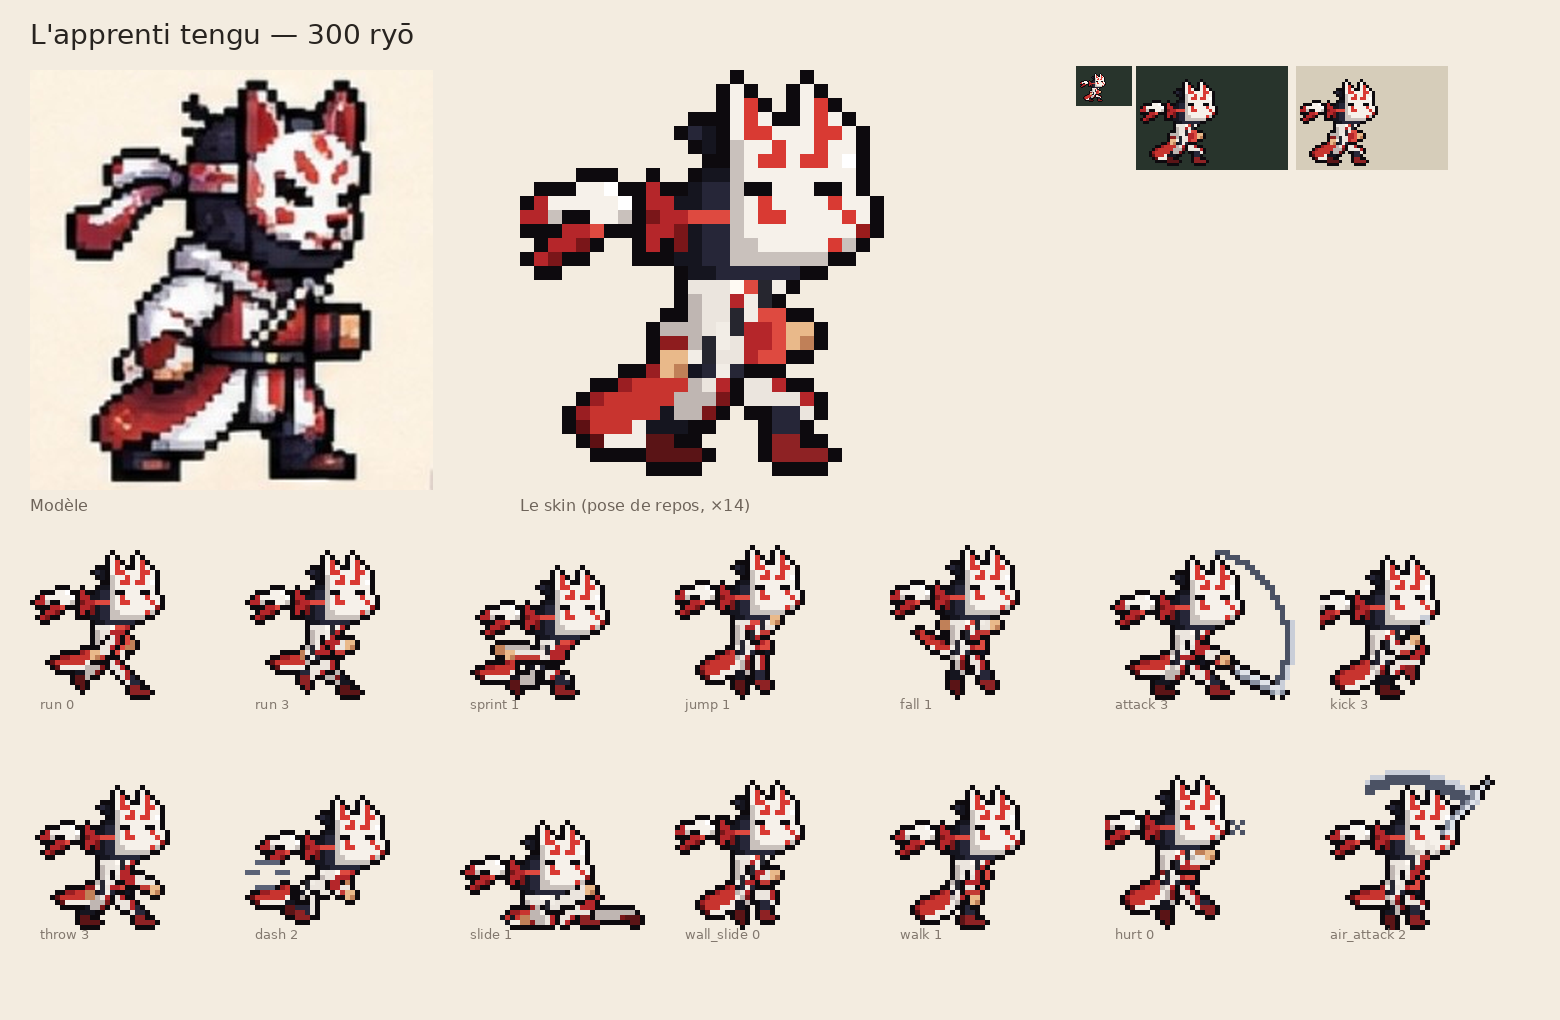
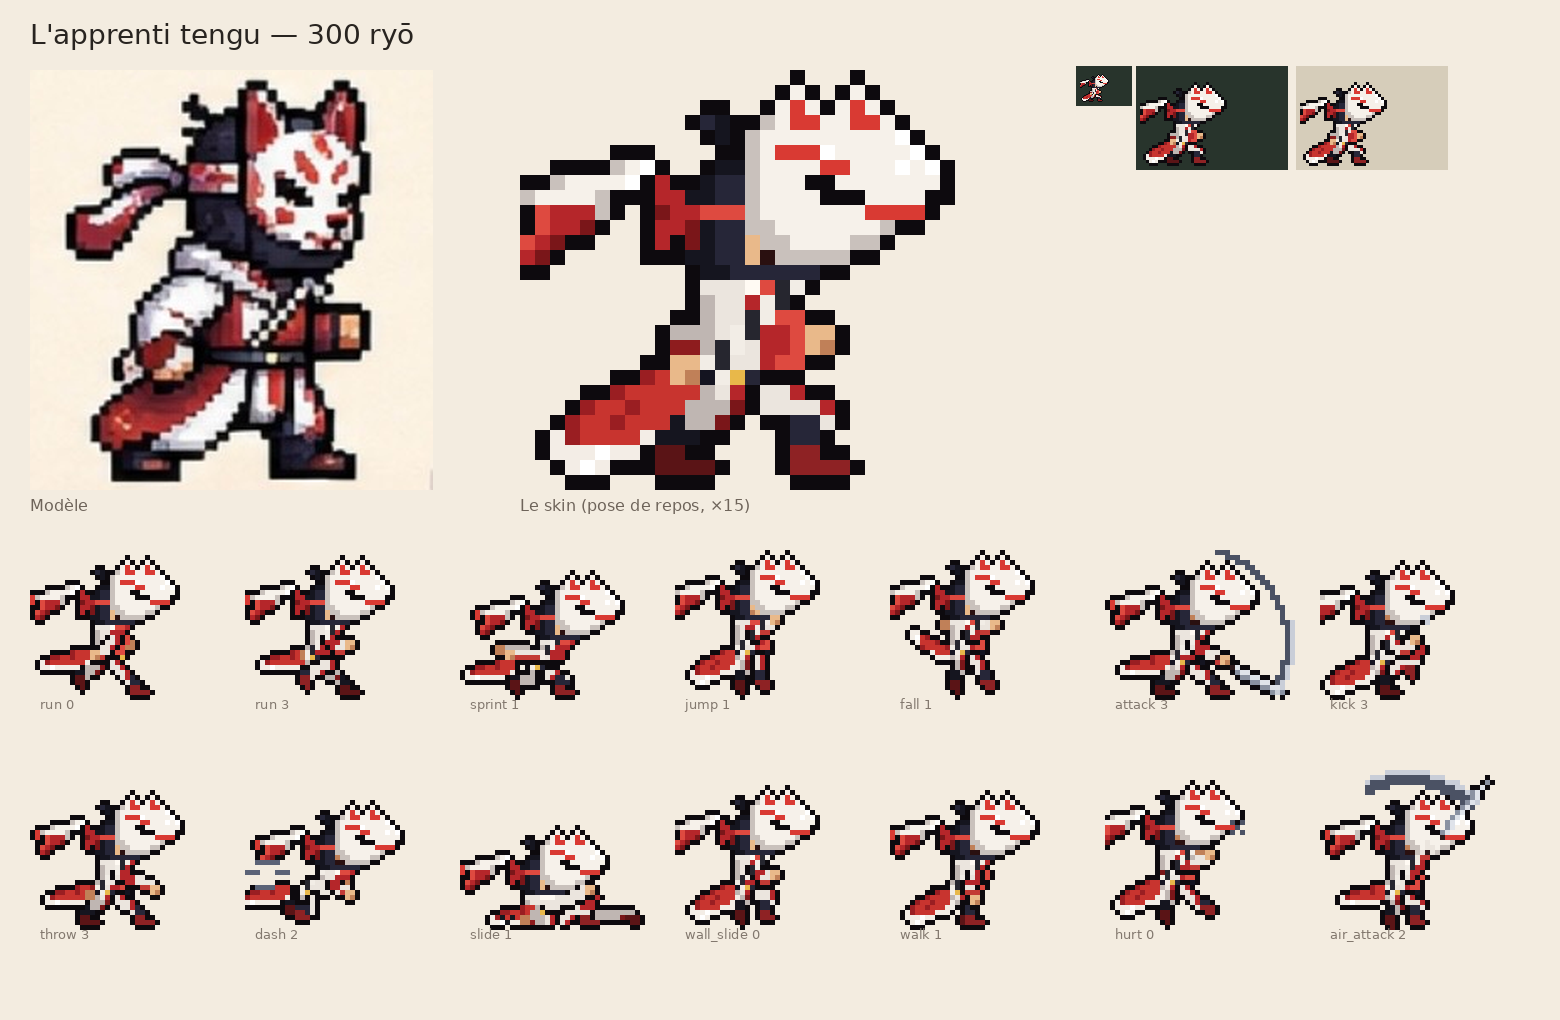
Apprenti tengu : masque de kitsune moins enfantin, rendu plus travaillé
Masque redessiné en profil : museau incliné jusqu'à la truffe noire, yeux en
fente oblique soulignés de rouge, flammes rouges au front, oreilles plus
petites, modelé du blanc (lumière en haut et à l'avant, gris dans l'ombre).
Rubans blanc à bout rouge et rouge, plus effilés ; queue de renard touffue,
mèches claires et pointe blanche ; boucle dorée de la ceinture.

Claude-Session: https://claude.ai/code/session_01A2iwx41GJ1yT1ZEu9VhwRg

diff --git a/docs/carte-mentale/index.html b/docs/carte-mentale/index.html
@@ -270,7 +270,7 @@ const BRANCHES = [
     keys: ['2 dégâts, recul 170 px/s', '0,35 s avant d\'en relancer un', 'Portée équivalente au sabre'],
     files: ['src/game/fall.js', 'tools/kage_forge/rig.py'], see: ['ennemi-chute'] },
   { id: 'kage-skins', t: 'Skins de KAGE', s: 'encours', d: 'Encre, le paysan, le Samouraï déchu, le pêcheur, Lumière d’or ; cinq autres à reprendre un par un',
-    txt: "Un skin = une palette par slots (même animation, même boîte de collision, rien ne change dans le jeu) et des accessoires, posés pose par pose : sur la tête (grand sugegasa tressé, dessiné à la main), dans le dos (le mino de feuilles et de paille du voyageur, qui suit le bord du dos, s'évase jusqu'aux chevilles et s'effiloche ; le tonnelet doré, le panier, le bambou et le manche d'outil du paysan), sur le corps (cordon doré en pointillés et boucle de ceinture, pan de tunique, pantalon rapiécé, kimono semé de feuilles). Les pans du bandeau sont rangés (le voyageur garde un ruban qui flotte). Chaque skin a sa planche d'animation complète (la forge exporte ses accessoires sur un calque d'index, kage_acc_<skin>_index.png, fondu par le jeu sur la planche recolorée). Planches de Raph (14 novembre 2026) : après un premier essai trop rapide des dix skins entourés, on reprend un par un ; faits : le voyageur (100 ryō, retiré du jeu le 16 novembre 2026 à la demande de Raph : sa planche reste dans docs/kage/skins/) et le paysan des rizières (100 ryō) ; le vagabond (50 ryō) est retiré du jeu (14 novembre 2026) ; Lumière d'or (légendaire, 600 ryō, 15 novembre 2026) : ninja bleu nuit, bandeau d'or et ses pans en flammes, étoffe dorée sur l'épaule, cordon et pans d'or à la ceinture, grande auréole à croix de lumière (sans contour) ; sabre à lame d'or et poignée de cuir, arc du coup d'or, shurikens dorés (projectileColors) ; en jeu (src/game/aura.js), un orbe doré qui flotte devant lui, deux volutes de lumière autour des jambes, des étincelles ; une légère traînée d'or derrière le coup d'épée (les images précédentes de la lame) des silhouettes dorées derrière le dash , trois reflets et un peu de poussière d'or étincelante derrière chaque shuriken (champ trail, Shurikens.dust, maskSheet dans sprites.js) ; le Samouraï déchu (rare, 450 ryō, 16 novembre 2026) : kabuto laqué à la bombe haute, cornes d'or en croissant et cimier rouge, bande rouge et ses deux pans au vent ; épaulière laquée bordée d'or, au haut carré, resserrée sur l'épaule (elle ne dépasse plus que d'un pixel : Raph la confondait avec la cape) ; cape rouge en lambeaux, dessinée à la main pour chaque vent (lu sur les pans du bandeau de la pose) : au repos plaquée dans le dos des épaules aux genoux, trois pixels au plus derrière l'épaule, angles nets, une entaille sur le côté, le bas en pointes ; en course elle vole haut derrière les épaules ; en chute elle se soulève ; col d'or en V, ceinture à plaques d'or ; tassette avant bordée d'or en U, tassette arrière clouée d'or ; hakama sombre jusqu'à la jambe levée d'un coup de pied, chaussures à bande rouille ; le bras arrière rapproché du corps d'un pixel (demandes de Raph) ; sa barre de vie passe au-dessus des cornes (champ barLift). Le même jour : un calque d'accessoires sait effacer (marque ERASE, index 255 : les pans rangés, le bras déplacé) ; jusque-là, ce qu'un accessoire retirait restait visible en jeu (les pans du voyageur, du paysan et de Lumière d'or) ; et en arène, le ninja porte enfin le skin de l'aventure en cours. Le pêcheur (épique, 500 ryō, 16 novembre 2026) : sugegasa à bande de tressage gris-bleu, pan bleu sous le bord, tenue bleu nuit semée d'éclats dorés, corde tressée claire en bandoulière, une canne fine rangée dans le dos, qui dépasse au-dessus du chapeau, un petit fil pendu à sa pointe (elle quitte le dos quand il la prend pour frapper), un filet rond sur le dos tenu à la hanche, qui lévite avec la vitesse (un peu en course ; en sprint et en dash il monte, part en arrière, penche et laisse trois traits de vitesse ; plus petit pendant les saltos), une canne à pêche en bambou à la place du sabre (nœuds, poignée de liège, scion, ligne et flotteur rouge et blanc ; l'arc du coup devient une ligne d'eau), des micro-poissons en guise de shurikens (agrandis ×1,4 le 17 novembre 2026 ; planche kage_fish, cases de 16 px, tournés dans le sens du vol, plantés la tête la première, des micro-gouttelettes d'eau derrière eux ; un petit poisson dans la main au lancer), toiles de paille aux chevilles, marque dorée sur le masque. Les pans du bandeau qui remontent derrière la tête (chute, glissade murale) sont désormais rangés aussi (ribbon : paysan, Lumière d'or). L'apprenti tengu (n° 13, 17 novembre 2026, planche de travail à valider) : masque blanc de renard aux marques rouges, mèche nouée, rubans blanc et rouge au vent, veste blanche à la poitrine rouge, cordelette en damier, pantalon blanc à bande rouge, tibias sombres, queue de renard rouge bordée de blanc qui suit le vent. Les cinq autres (ninja blanc, écarlate, Ombre pourpre, Souffle de l'hiver, Renard blanc) attendent en brouillon (tools/kage_forge/skins_brouillon/), hors du jeu. Nouveaux slots : gear (b B i) et gear2 (j J).",
+    txt: "Un skin = une palette par slots (même animation, même boîte de collision, rien ne change dans le jeu) et des accessoires, posés pose par pose : sur la tête (grand sugegasa tressé, dessiné à la main), dans le dos (le mino de feuilles et de paille du voyageur, qui suit le bord du dos, s'évase jusqu'aux chevilles et s'effiloche ; le tonnelet doré, le panier, le bambou et le manche d'outil du paysan), sur le corps (cordon doré en pointillés et boucle de ceinture, pan de tunique, pantalon rapiécé, kimono semé de feuilles). Les pans du bandeau sont rangés (le voyageur garde un ruban qui flotte). Chaque skin a sa planche d'animation complète (la forge exporte ses accessoires sur un calque d'index, kage_acc_<skin>_index.png, fondu par le jeu sur la planche recolorée). Planches de Raph (14 novembre 2026) : après un premier essai trop rapide des dix skins entourés, on reprend un par un ; faits : le voyageur (100 ryō, retiré du jeu le 16 novembre 2026 à la demande de Raph : sa planche reste dans docs/kage/skins/) et le paysan des rizières (100 ryō) ; le vagabond (50 ryō) est retiré du jeu (14 novembre 2026) ; Lumière d'or (légendaire, 600 ryō, 15 novembre 2026) : ninja bleu nuit, bandeau d'or et ses pans en flammes, étoffe dorée sur l'épaule, cordon et pans d'or à la ceinture, grande auréole à croix de lumière (sans contour) ; sabre à lame d'or et poignée de cuir, arc du coup d'or, shurikens dorés (projectileColors) ; en jeu (src/game/aura.js), un orbe doré qui flotte devant lui, deux volutes de lumière autour des jambes, des étincelles ; une légère traînée d'or derrière le coup d'épée (les images précédentes de la lame) des silhouettes dorées derrière le dash , trois reflets et un peu de poussière d'or étincelante derrière chaque shuriken (champ trail, Shurikens.dust, maskSheet dans sprites.js) ; le Samouraï déchu (rare, 450 ryō, 16 novembre 2026) : kabuto laqué à la bombe haute, cornes d'or en croissant et cimier rouge, bande rouge et ses deux pans au vent ; épaulière laquée bordée d'or, au haut carré, resserrée sur l'épaule (elle ne dépasse plus que d'un pixel : Raph la confondait avec la cape) ; cape rouge en lambeaux, dessinée à la main pour chaque vent (lu sur les pans du bandeau de la pose) : au repos plaquée dans le dos des épaules aux genoux, trois pixels au plus derrière l'épaule, angles nets, une entaille sur le côté, le bas en pointes ; en course elle vole haut derrière les épaules ; en chute elle se soulève ; col d'or en V, ceinture à plaques d'or ; tassette avant bordée d'or en U, tassette arrière clouée d'or ; hakama sombre jusqu'à la jambe levée d'un coup de pied, chaussures à bande rouille ; le bras arrière rapproché du corps d'un pixel (demandes de Raph) ; sa barre de vie passe au-dessus des cornes (champ barLift). Le même jour : un calque d'accessoires sait effacer (marque ERASE, index 255 : les pans rangés, le bras déplacé) ; jusque-là, ce qu'un accessoire retirait restait visible en jeu (les pans du voyageur, du paysan et de Lumière d'or) ; et en arène, le ninja porte enfin le skin de l'aventure en cours. Le pêcheur (épique, 500 ryō, 16 novembre 2026) : sugegasa à bande de tressage gris-bleu, pan bleu sous le bord, tenue bleu nuit semée d'éclats dorés, corde tressée claire en bandoulière, une canne fine rangée dans le dos, qui dépasse au-dessus du chapeau, un petit fil pendu à sa pointe (elle quitte le dos quand il la prend pour frapper), un filet rond sur le dos tenu à la hanche, qui lévite avec la vitesse (un peu en course ; en sprint et en dash il monte, part en arrière, penche et laisse trois traits de vitesse ; plus petit pendant les saltos), une canne à pêche en bambou à la place du sabre (nœuds, poignée de liège, scion, ligne et flotteur rouge et blanc ; l'arc du coup devient une ligne d'eau), des micro-poissons en guise de shurikens (agrandis ×1,4 le 17 novembre 2026 ; planche kage_fish, cases de 16 px, tournés dans le sens du vol, plantés la tête la première, des micro-gouttelettes d'eau derrière eux ; un petit poisson dans la main au lancer), toiles de paille aux chevilles, marque dorée sur le masque. Les pans du bandeau qui remontent derrière la tête (chute, glissade murale) sont désormais rangés aussi (ribbon : paysan, Lumière d'or). L'apprenti tengu (n° 13, 17 novembre 2026, planche de travail à valider) : masque de kitsune vu de profil (museau incliné jusqu'à la truffe, yeux en fente oblique, flammes rouges au front, modelé du blanc), mèche nouée, rubans blanc et rouge effilés au vent, boucle dorée à la ceinture, veste blanche à la poitrine rouge, cordelette en damier, pantalon blanc à bande rouge, tibias sombres, queue de renard touffue, rouge à pointe blanche, qui suit le vent. Les cinq autres (ninja blanc, écarlate, Ombre pourpre, Souffle de l'hiver, Renard blanc) attendent en brouillon (tools/kage_forge/skins_brouillon/), hors du jeu. Nouveaux slots : gear (b B i) et gear2 (j J).",
     keys: ['5 skins en jeu', '5 en brouillon', 'gear b B i · gear2 j J', 'effacer : index 255'],
     files: ['assets/characters/kage/skins/', 'src/engine/sprites.js', 'tools/kage_forge/accessories.py', 'tools/kage_forge/palette.py', 'tools/kage_forge/skin_design.py', 'tools/kage_forge/skin_sheets.py', 'tools/kage_forge/skins_brouillon/', 'src/game/shop.js', 'src/game/aura.js', 'docs/SKINS.md'],
     links: [['Le paysan, face à son modèle', 'docs/kage/skins/paysan_planche.png'], ['Lumière d’or, face à son modèle', 'docs/kage/skins/or_planche.png'], ['Le Samouraï déchu, face à son modèle', 'docs/kage/skins/samourai_planche.png'], ['Le pêcheur, face à son modèle', 'docs/kage/skins/pecheur_planche.png'], ['L’apprenti tengu (en cours), face à son modèle', 'docs/kage/skins/tengu_planche.png'], ['Le pêcheur, toutes les animations', 'docs/kage/skins/planche_pecheur.png'], ['Le Samouraï déchu, toutes les animations', 'docs/kage/skins/planche_samourai.png']], see: ['sys-boutique', 'hab-marchand'] },

diff --git a/tools/kage_forge/accessories.py b/tools/kage_forge/accessories.py
@@ -1338,30 +1338,30 @@ def mask_mark(g):
 # r p P Q queue (sombre, ombre, rouge, blanc)
 # ---------------------------------------------------------------------------
 FOX_MASK = """
-B....B....
-BJ...BJ...
-BJB..BJB..
-BJJBBBJJB.
-bBBJBBJBB.
-bBJJBJJBi.
-bBBBBBBBB.
-bOOBBBOOB.
-bBJBBBBJBB
-bBJJBBBBJB
-bBBBBBBBBj
-bbBBBBBJb.
-bbbbbbb...
+...B...B.....
+..BJB.BJB....
+.bBJJBBJJB...
+bBBBBBBBBBi..
+bBJJJiBBBBBi.
+bBBBBJJBBBiBi
+bBBBOOBBBBBBB
+bBBBBOOOBBBBO
+bBBBBBBBJJJJ.
+bbBBBBBBBb...
+.bbBBBBbb....
+..bbbbb......
 """
-FOX_MASK_DX, FOX_MASK_DY = 5, -5
+FOX_MASK_DX, FOX_MASK_DY = 5, -4
 
 # les deux rubans du masque, qui flottent derrière la tête (rangée relative à hy : colonne, motif)
 FOX_TIES = {
-    2: (-6, "BBi"),
-    3: (-9, "FBBBBBi"),
-    4: (-10, "FFb..BBb"),
-    5: (-7, "FFG"),
-    6: (-8, "FFf"),
-    7: (-9, "Ff"),
+    1: (-4, "bBi"),
+    2: (-8, "bBBBBi"),
+    3: (-11, "JbBBBBb"),
+    4: (-11, "J.GFFFb"),
+    5: (-9, "GFFf"),
+    6: (-10, "GFf"),
+    7: (-10, "Ff"),
 }
 
 
@@ -1427,6 +1427,10 @@ def haori(g):
         for x in xs:
             if x >= front - 2:
                 g[y, x] = RED[g[y, x]]
+    # la boucle dorée, au milieu de la ceinture
+    mid = (bx + be) // 2
+    if g[by, mid] in "lL":
+        g[by, mid] = "S"
     # la manche arrière blanche, son poignet rouge (le bas de l'avant-bras)
     arm = [(y, x) for y in range(CH) for x in range(CW) if g[y, x] in "aA"]
     if arm:
@@ -1462,25 +1466,27 @@ def haori(g):
 # en chute
 FOX_TAIL = {
     "calm": (0, [
-        ".....pPP",
-        "...pPPPP",
-        ".pPPPPPQ",
-        "pPPPPPQQ",
-        "rPPPQQQ.",
-        ".rQQQ...",
+        "......pPP.",
+        "....pPPPPP",
+        "..pPPpPPPQ",
+        ".pPPpPPPQQ",
+        "QpPPPPQQQ.",
+        "QQQiQQ....",
+        ".QiQ......",
     ]),
     "back": (-1, [
-        "......pP",
-        "..ppPPPP",
-        "rPPPPPPQ",
-        ".rQQQQQ.",
+        "......pPPP",
+        "..ppPPpPPP",
+        "QpPPPPPPPQ",
+        "QQiQQQQQ..",
     ]),
     "up": (-4, [
-        "rP......",
-        ".PPp....",
-        "..PPPp..",
-        "...QPPPp",
-        ".....QQP",
+        "QQ.......",
+        "QiPp.....",
+        ".QPPPp...",
+        "..pPPPPp.",
+        "....QPPPP",
+        ".....QQQP",
     ]),
 }
 
